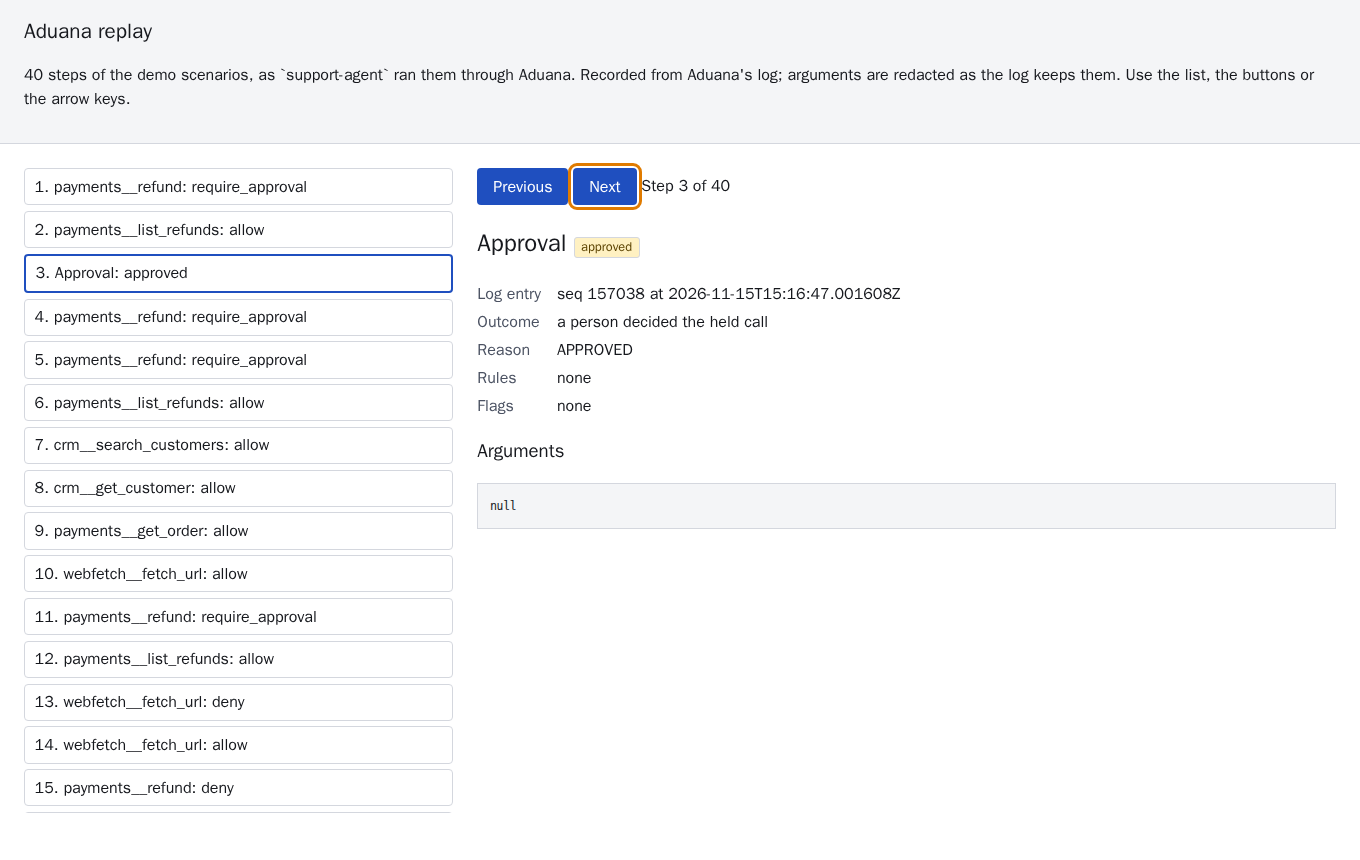
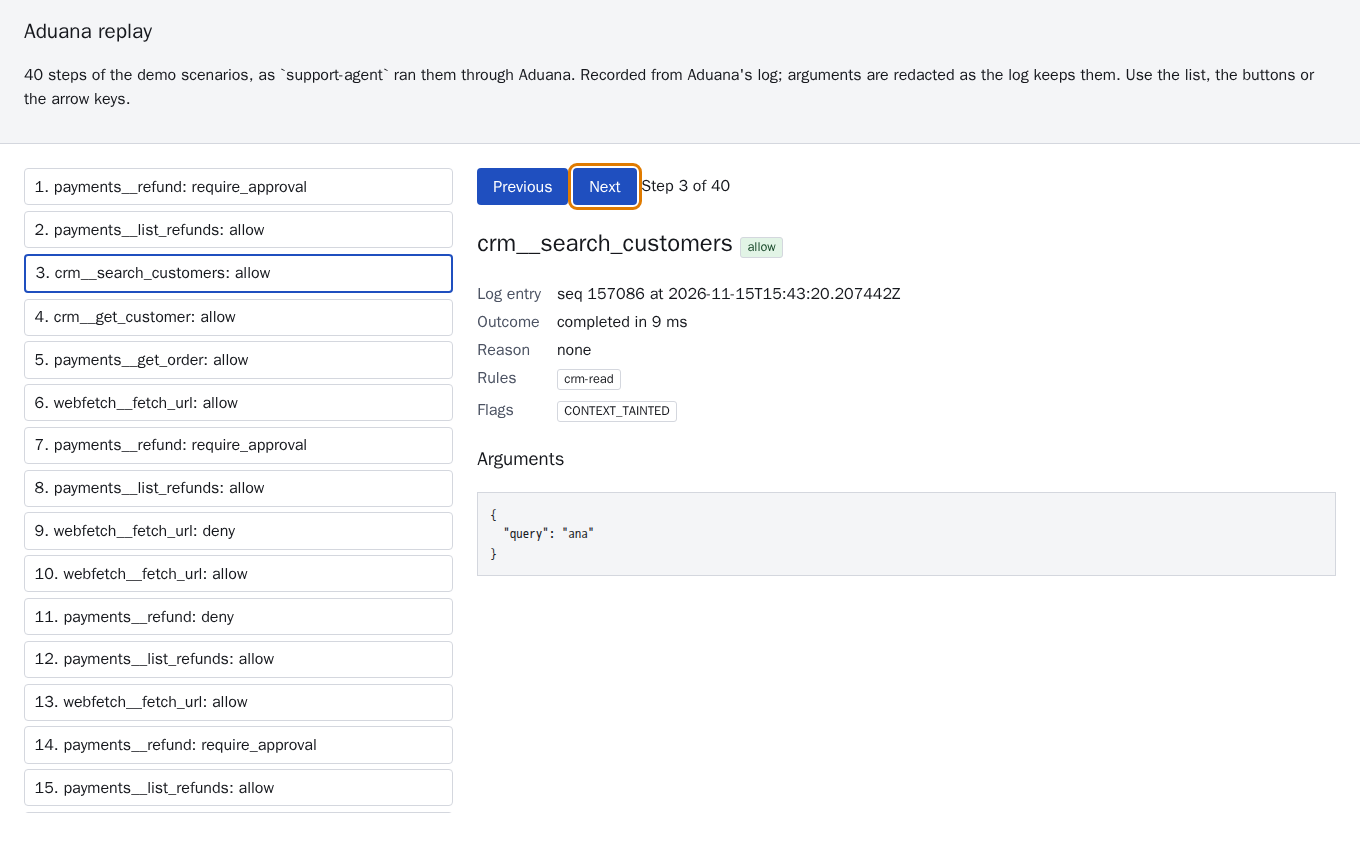
docs: phase 12 evidence, handoff and README screenshot

diff --git a/docs/HANDOFF.md b/docs/HANDOFF.md
@@ -1,6 +1,6 @@
 # Handoff
 
-Rewritten at the end of every session. Last update: 2026-11-15, end of Phase 10 (done after Phase 11).
+Rewritten at the end of every session. Last update: 2026-11-15, end of Phase 12: every phase of `docs/PLAN.md` §10 is done.
 
 ## What exists
 
@@ -22,38 +22,41 @@ Rewritten at the end of every session. Last update: 2026-11-15, end of Phase 10 
 - `make up`, `make smoke`, `make e2e` (seeds via `scripts/demo_seed.py`, runs scenarios through the
   gateway in both protocol eras), `make demo-direct`, `make lint`, `make test`.
 
+Phase 7 added `inspection/` (detectors, redaction, injection marks, taint), ADR 10 and 19. Phase 8
+added `limits/` (rates, budget, idempotency), the result size limit and `upstream/StdioConnector`, ADR 9.
+Phase 9 added `console/` (Angular 22), `security/SecurityHeadersFilter`, `make test-console`,
+`make demo`, `make console-e2e`, ADR 20. Phase 11 (done before Phase 10, as the plan's cut line allows)
+added the attack bench (`cli/.../attacks/`, `attacks/`, `make attacks`, `make attacks-check`), the
+latency benchmark (`bench/`, `make bench`), group commit for the log (ADR 21), `docs/threat-model.md`,
+`scripts/check_readme_numbers.py`, ADR 22. Phase 10 added `policy/PolicySimulator` (ADR 23), the
+simulation API, CLI command and screen, `GET /api/v1/audit/head`, `make replay` and `replay/`. Phase 12
+made the image distroless with the CLI inside, added `make scan` (Trivy), `make release-check`,
+`deploy/compose.prod.yaml`, `release.yml`, `pages.yml`, the final README, `docs/case-study.md`,
+`docs/video-script.md` and ADR 12 to 15.
+
+`PROGRESS.md` has every acceptance criterion with its commits; `docs/evidence/phase-NN.md` the runs.
+
 ## What is left
 
-Phases 9 to 12 of `docs/PLAN.md` §10. Phase 7 added `inspection/`, `V5__inspection.sql`,
-`docs/detectors.md`, ADR 10 and 19. Phase 8 added `limits/` (`LimitService`: per-tool and per-principal
-rates in one-minute windows plus a daily budget, all in `rate_bucket`; `IdempotencyService`:
-`_meta["aduana/idempotency-key"]`), `V6__limits_and_idempotency.sql`, the result size limit,
-`upstream/StdioConnector` (allow-listed `stdio:/path?arg=…` endpoints, clean environment, kill on
-timeout, restart with backoff), the `notes` demo server over stdio and ADR 9.
+Not done, and why:
 
-Not done in Phase 8: a memory limit for stdio children (Java has no portable way to set one; run the
-gateway in a container with a memory limit, or pass `-Xmx`-style flags in the command when the child
-supports them), credentials for stdio servers (none is injected), and the `notes` server is not behind the
-gateway in `compose.yaml` because the gateway image has no Node.js; its stdio contract is tested in
-`demo/test/stdio.test.ts` and the gateway's stdio path in `StdioTest` with a Java fake.
-
-Phase 9 added `console/` (Angular 22, hash routing, screens in `src/app/pages/`, typed client in
-`api.ts`, all styles in `src/styles.css` so the CSP needs no inline styles), the console stage in the
-`Dockerfile`, `security/SecurityHeadersFilter`, `make test-console`, `make demo`, `make console-e2e`
-(Playwright in its pinned image, on the compose network, saving `docs/images/`) and ADR 20.
-
-Phase 11 added the attack bench (`cli/.../attacks/`, `attacks/cases/`, `make attacks`,
-`make attacks-check`), the latency benchmark (`bench/Bench.java`, `make bench`), group commit for the
-log (ADR 21), `docs/threat-model.md`, `scripts/check_readme_numbers.py` and ADR 22.
-
-Phase 10 added `policy/PolicySimulator` (ADR 23), `POST /api/v1/policy/simulate`, `GET /api/v1/audit/head`,
-`aduana policy simulate`, the Simulation screen, `scripts/build_replay.py`, `make replay` and
-`replay/index.html` (regenerate it after `make demo`).
-
-Next: Phase 12 (the image already serves the console; add the CLI to it, `deploy/compose.prod.yaml`,
-the three-command quick start, the final README per plan §11 with numbers quoted from the reports,
-`docs/case-study.md`, `docs/video-script.md`, the Pages workflow for `replay/`, `release.yml`,
-`make release-check`, Trivy scan).
+- Nothing is pushed: the repository has no remote. CI, `release.yml` and `pages.yml` have never run on
+  GitHub. When it is pushed: replace `<owner>` in the README's clone command, swap the static CI badge
+  for the workflow's live badge, enable Pages (source: GitHub Actions), and tag `v0.1.0` to publish the
+  image.
+- The README's support section has the contact e-mail but not the LinkedIn link the plan asks for: the
+  profile URL is not in the repository.
+- The arm64 half of the multi-arch build is defined in `release.yml` but was not built locally.
+- CA12.1 was timed on this machine with a fresh clone, a fresh project name and a cache-free image
+  builder; base images already pulled on this machine were not pulled again. See
+  `docs/evidence/phase-12.md`.
+- Helm chart (optional in the plan): not started.
+- From earlier phases: no memory limit for stdio children and no credentials for them; the `notes`
+  stdio server is not behind the gateway in compose (the image has no Node.js); the OIDC JWT path has no
+  test; CA5.5 was simulated by revoking INSERT rather than stopping PostgreSQL; the latency objective of
+  15 ms added p99 at 200 req/s was missed by 0.5 ms (the 50 ms minimum is met).
+- Heuristic gaps the attack bench measures (trace-scoped taint, detector evasions, English-only
+  injection patterns) are listed in `attacks/REPORT.md` and `docs/threat-model.md`.
 
 ## Known traps
 

diff --git a/docs/evidence/phase-12.md b/docs/evidence/phase-12.md
@@ -1,0 +1,66 @@
+# Phase 12 evidence
+
+Run on 2026-11-15 on this machine (AMD Ryzen 5 5500, Docker Desktop on Windows).
+
+## CA12.1 quick start
+
+A fresh `git clone` of the branch into an empty folder, with `COMPOSE_PROJECT_NAME=aduanaqs` so no
+container, network or volume of the existing stack was reused:
+
+```
+make up     16 s   (images built from Docker's layer cache)
+make demo   15 s   all steps passed; console at http://localhost:8780 answers 200
+```
+
+The same two images built with a new BuildKit builder that had no cache at all (base images, Maven and
+npm downloads included): gateway 57 s, demo servers 18 s. Base images Compose pulls by itself
+(PostgreSQL, Python) were already on this machine and were not pulled again; that time is not
+measured. A first run therefore stays well under the 10-minute target on this machine; a different
+clean machine was not available.
+
+## CA12.2 README
+
+Plan §11, point by point: title and three badges (static: nothing is pushed yet); the product sentence
+and the principle linked to ADR 2; three links (replay, case study, ADRs); one real screenshot
+(`console-approvals-untrusted.png`, the refund held for an untrusted flow); quick start with three
+commands and an "open / what you see" table; 8 bullets of what it does; the measured table, every
+number backed by a generated report (`check_readme_numbers: 11 claims, 0 unbacked`); what it does not
+do; a Mermaid diagram and the 12 steps; a rule, a test case and the command; the two verification
+commands; the risk table, one row per attack category; the comparison with its date; the layout; the
+status; commercial use and support; the licence line. 198 lines. Missing: the LinkedIn link (not in the
+repository).
+
+## CA12.3 release check
+
+```
+$ make release-check     rc=0, 1055 s
+  lint                   passed (check_licenses: 104 Maven lines, 2 npm lock files, 0 problems; gitleaks over history: no leaks)
+  test                   passed (scripts, Java with coverage gates, demo, console 22 tests, verifier)
+  up, smoke              gateway healthy
+  e2e, demo              all steps passed
+  console-e2e            11 passed
+  attacks-check          91 cases, 85 stopped; deterministic not stopped: none; report unchanged
+  scan                   Trivy: 0 critical or high vulnerabilities with a fix
+```
+
+The first run failed at `make demo`, which reused the payments server that `make e2e` had just used;
+`make demo` now starts from fresh demo servers. The console flow added afterwards for the README
+screenshot brings `make console-e2e` to 12 passed.
+
+## CA12.4 image
+
+```
+user=65532:65532                       (distroless nonroot)
+docker run --entrypoint /bin/sh …      stat /bin/sh: no such file or directory
+HEALTHCHECK                            /usr/bin/java … HealthProbe (exec form)
+Trivy 0.70.0 (Apache-2.0)              65 targets, 0 critical or high with a fix
+```
+
+The image holds the gateway, the CLI (`java -jar /opt/aduana/aduana-cli.jar`) and the console. Its
+arm64 build is defined in `.github/workflows/release.yml` and was not run.
+
+## Production compose
+
+`deploy/compose.prod.yaml` with a generated master key and passwords, run as its own project on port
+8781: gateway healthy with a read-only root filesystem, all capabilities dropped, session cookie
+`Secure; HttpOnly; SameSite=Strict`. The test project and its volume were removed afterwards.

diff --git a/PROGRESS.md b/PROGRESS.md
@@ -14,7 +14,7 @@
 | 9 | Console | done |
 | 10 | Simulation and replay | done |
 | 11 | Attack bench, performance and reports | done |
-| 12 | Packaging, documentation and publication | not started |
+| 12 | Packaging, documentation and publication | done |
 
 ## Phase 0: Foundations
 
@@ -254,3 +254,20 @@ Done on branch `phase-10-simulation`, merged into `main` after Phase 11.
 | CA10.1 the active bundle against its own traffic gives zero differences | met: `the_active_policy_against_its_own_traffic_changes_nothing`; on the demo stack 9 476 decisions, 0 changed (Playwright flow too) |
 | CA10.2 conditions on redacted arguments are unknown, reported apart, never unchanged | met: `conditions_on_redacted_arguments_are_unknown_never_unchanged`; 24 refunds unknown on the demo stack, listed with `$.destination_iban`; outcomes that cannot depend on the redacted value stay known (`a_redacted_value_that_cannot_change_the_outcome_does_not_make_it_unknown`) |
 | CA10.3 the replay page works opened without a server | met: Playwright opens `file:///src/replay/index.html`, steps through it, and sees no request other than `file:` |
+
+## Phase 12: Packaging, documentation and publication
+
+Done on branch `phase-12-release`, merged into `main`. Nothing is pushed or tagged.
+
+- Distroless image with the CLI, `make scan`, `make release-check`: `ccf8c74`; production compose: `1012482`;
+  `release.yml` and `pages.yml`: `7d519e1`; final README, case study, video script, ADR 12 to 15;
+  e2e and demo fixes found on the way.
+
+| CA | Result |
+|---|---|
+| CA12.1 `git clone`, `make up`, `make demo` → console with data in under 10 minutes | met on this machine: 31 s with Docker's caches, image builds 75 s with a cache-free builder; base images already present (`docs/evidence/phase-12.md`) |
+| CA12.2 README follows §11 point by point | met except the LinkedIn link, which is not in the repository |
+| CA12.3 `make release-check` passes | met: rc 0 in 1055 s (lint, tests, stack, e2e, console flows, attack report, licences, history secrets, Trivy) |
+| CA12.4 non-root, no shell, `HEALTHCHECK`, Trivy without fixable critical or high | met: distroless nonroot (65532), no `/bin/sh`, exec-form health check, Trivy 0.70.0: 0 |
+
+Not done: the arm64 build was not run locally; Helm (optional) not started.

diff --git a/README.md b/README.md
@@ -11,7 +11,7 @@ person when it matters, and recorded in a log that anyone can verify.
 
 [Replay of the demo](replay/index.html) · [Case study](docs/case-study.md) · [Decisions (ADR)](docs/adr/)
 
-![The approval queue: a refund to a test account held for finance, with the IBAN redacted to its first and last four characters and the rule that held it](docs/images/console-approvals.png)
+![The approval queue as security sees it: the refund an injected web page asked for, held by rule untrusted-flow-into-side-effects, flagged FLOW_FROM_UNTRUSTED with the log entry the IBAN came from, the IBAN redacted to XX20…6001](docs/images/console-approvals-untrusted.png)
 
 ## Quick start
 
